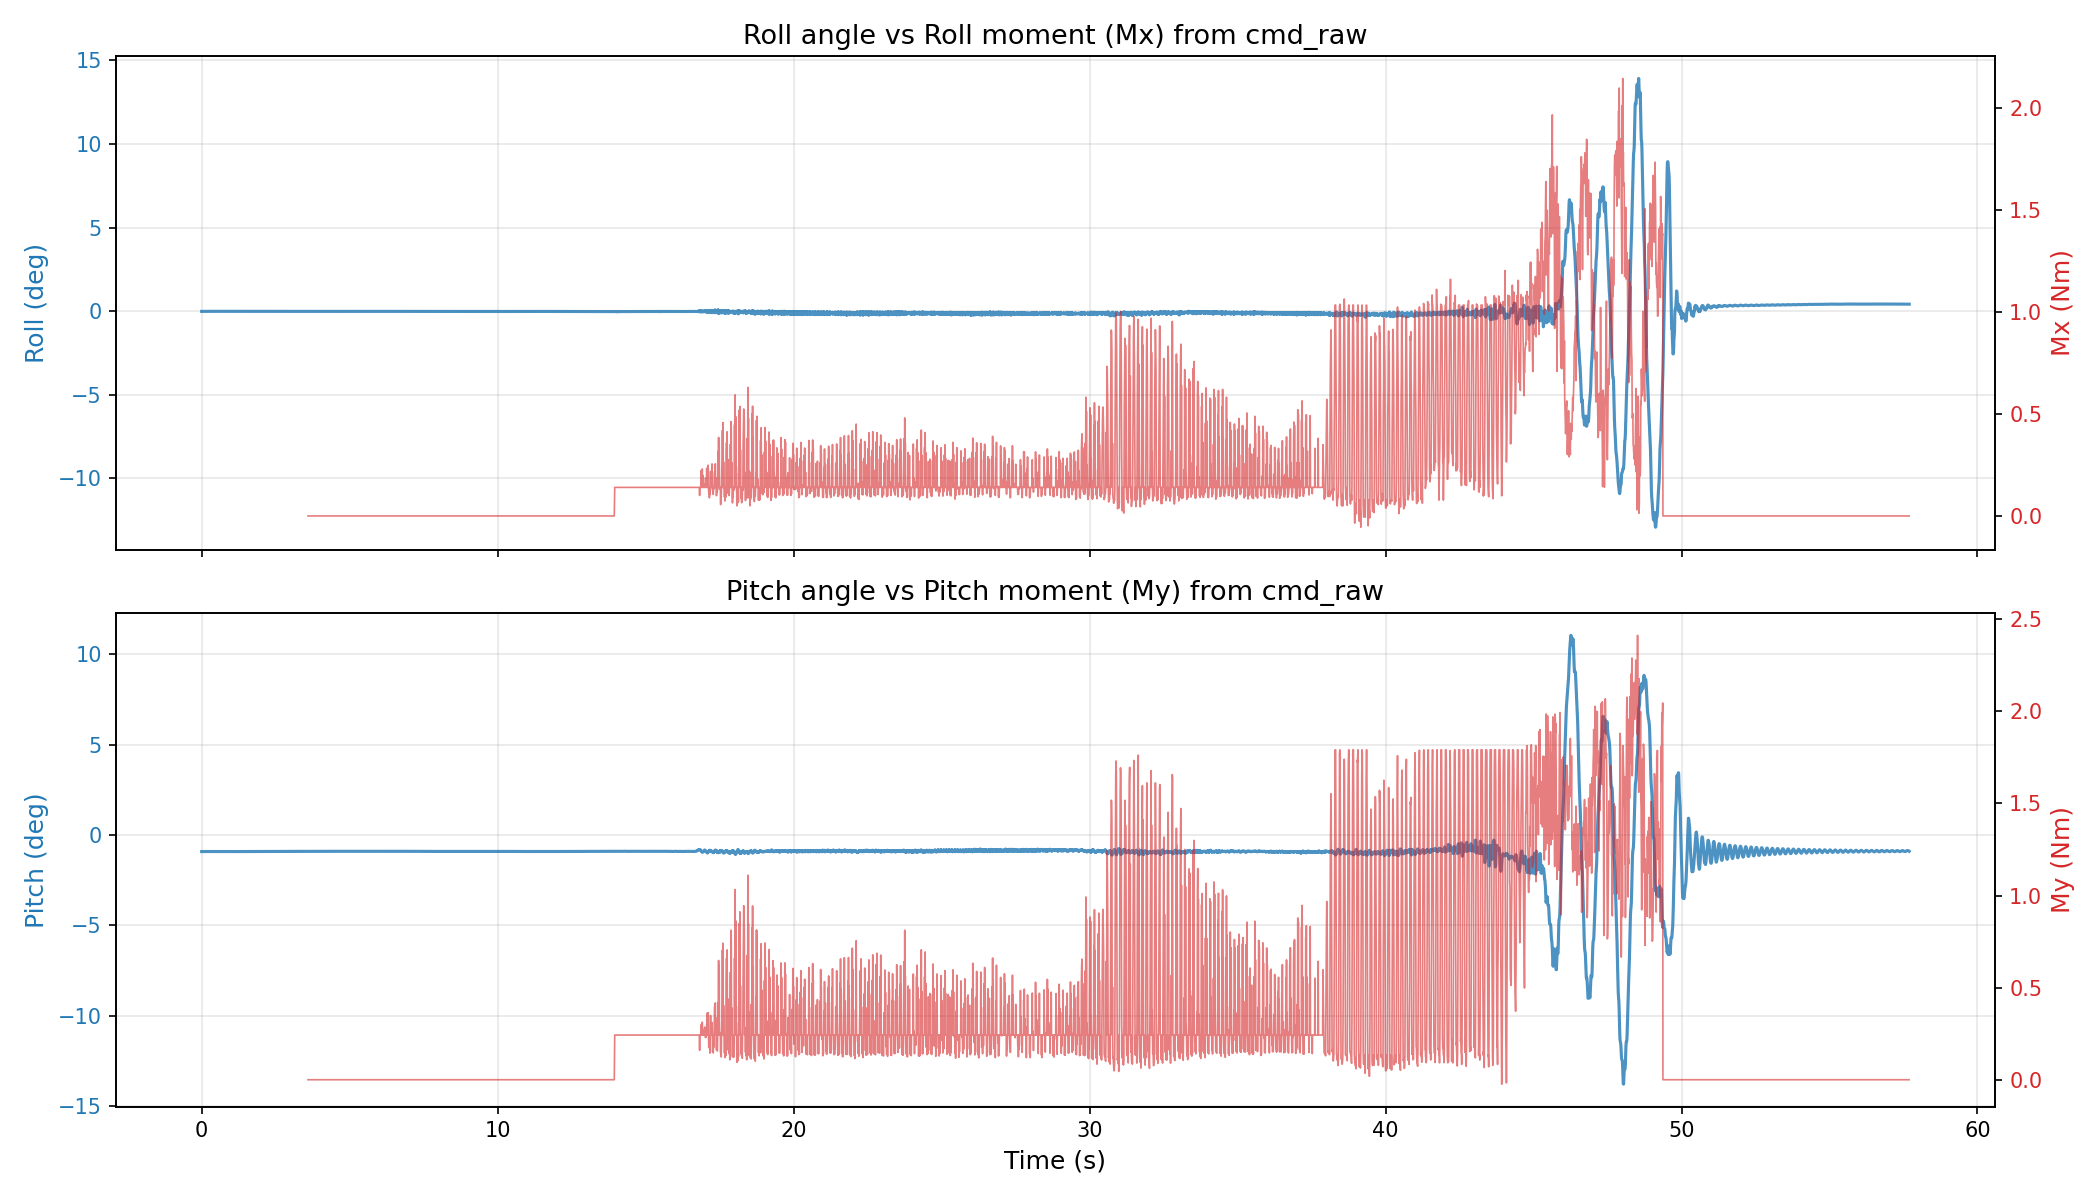
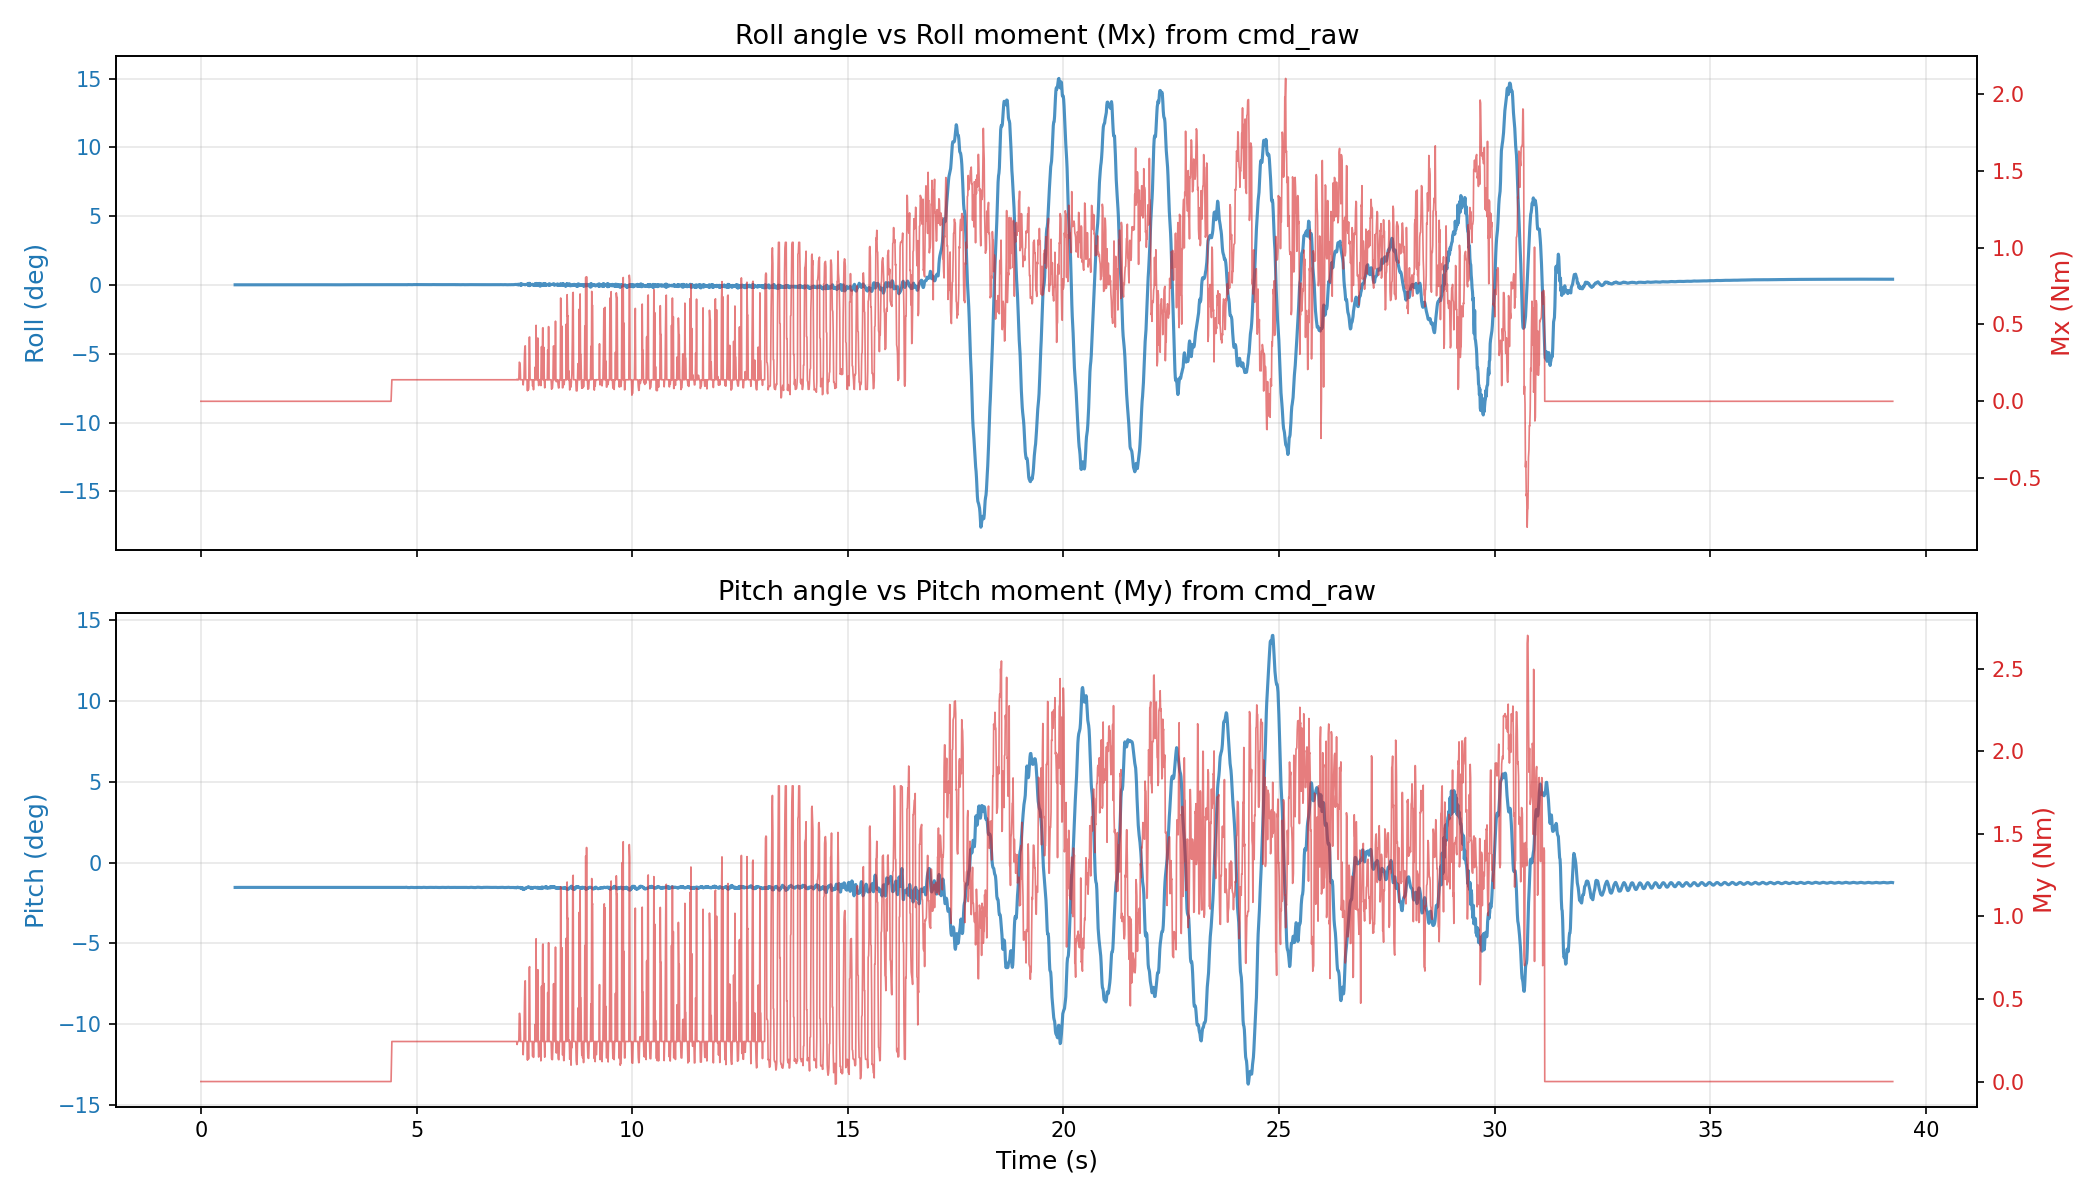
Update moment vs roll/pitch plot to use nmpc_2 bag with moment-based t0
Changed from nmpc (LPF) bag to nmpc_2 bag, aligned reference time
to cmd_raw start.

https://claude.ai/code/session_015hDTXF7MWidPDJrsc9iZ1y

diff --git a/bag_folder/plot_moment_rp.py b/bag_folder/plot_moment_rp.py
@@ -122,7 +122,7 @@ def load_bag(db_path):
     # Convert to arrays and make time relative
     cmd_times = np.array(cmd_times)
     odom_times = np.array(odom_times)
-    t0 = min(cmd_times[0], odom_times[0])
+    t0 = cmd_times[0]  # reference time = cmd_raw (moment) start
     cmd_times -= t0
     odom_times -= t0
 
@@ -132,7 +132,7 @@ def load_bag(db_path):
 
 
 # ── Load data ──
-db_path = '/home/user/drone_control_pkgs/bag_folder/2026_03_22_nmpc/2026_03_22_nmpc_0.db3'
+db_path = '/home/user/drone_control_pkgs/bag_folder/2026_03_22_nmpc_2/2026_03_22_nmpc_2_0.db3'
 (cmd_t, F, Mx, My, Mz, odom_t, roll, pitch) = load_bag(db_path)
 
 # ── Plot ──
